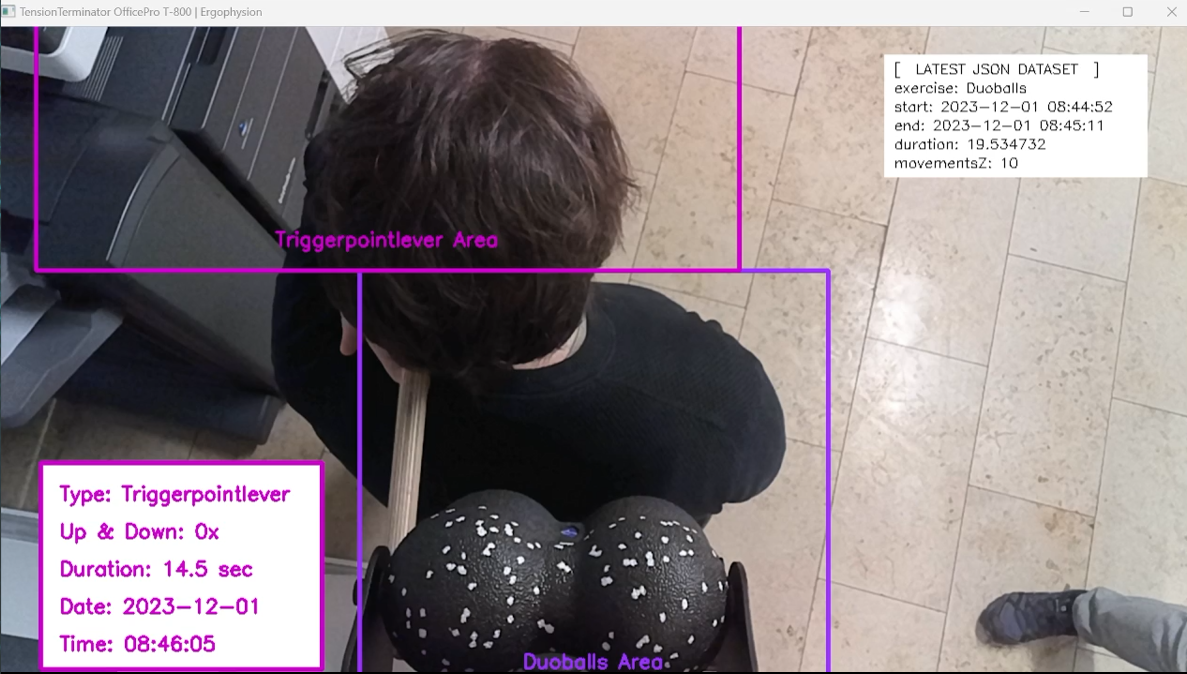
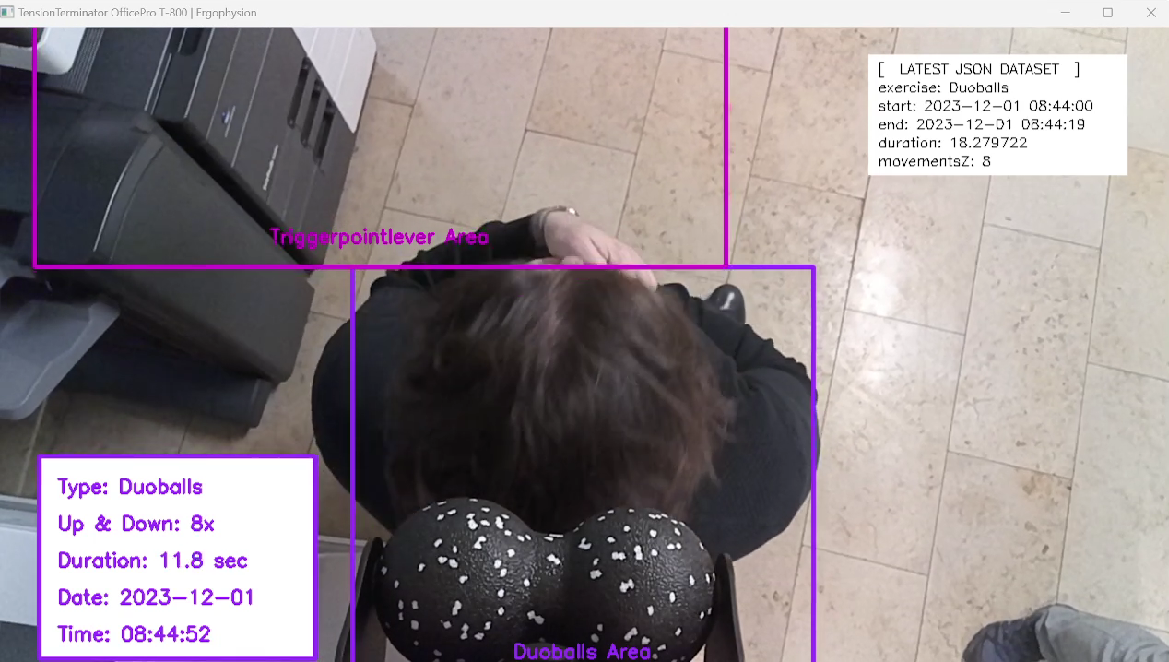
update doc

diff --git a/TT800device/README.md b/TT800device/README.md
@@ -6,6 +6,10 @@ This Python script 'TT800run.py' is the implementation for the Tension Terminato
 
 ![cumulative object counting](../docufiles/screenshot_tt800run.png)
 
+```
+python3 TT800run.py
+```
+
 Below is a detailed breakdown of its functionalities:
 
 1. **Library Import and Global Variable Initialization**: 
@@ -41,3 +45,5 @@ Below is a detailed breakdown of its functionalities:
 8. **Camera Execution and Display**:
    - The script starts the camera in blocking mode, meaning it will continuously capture and process video frames until manually stopped.
    - Visual output is displayed using OpenCV, with options for resizing the frame for better visibility.
+
+![cumulative object counting](../docufiles/screenshot_tt800run_2.png)
